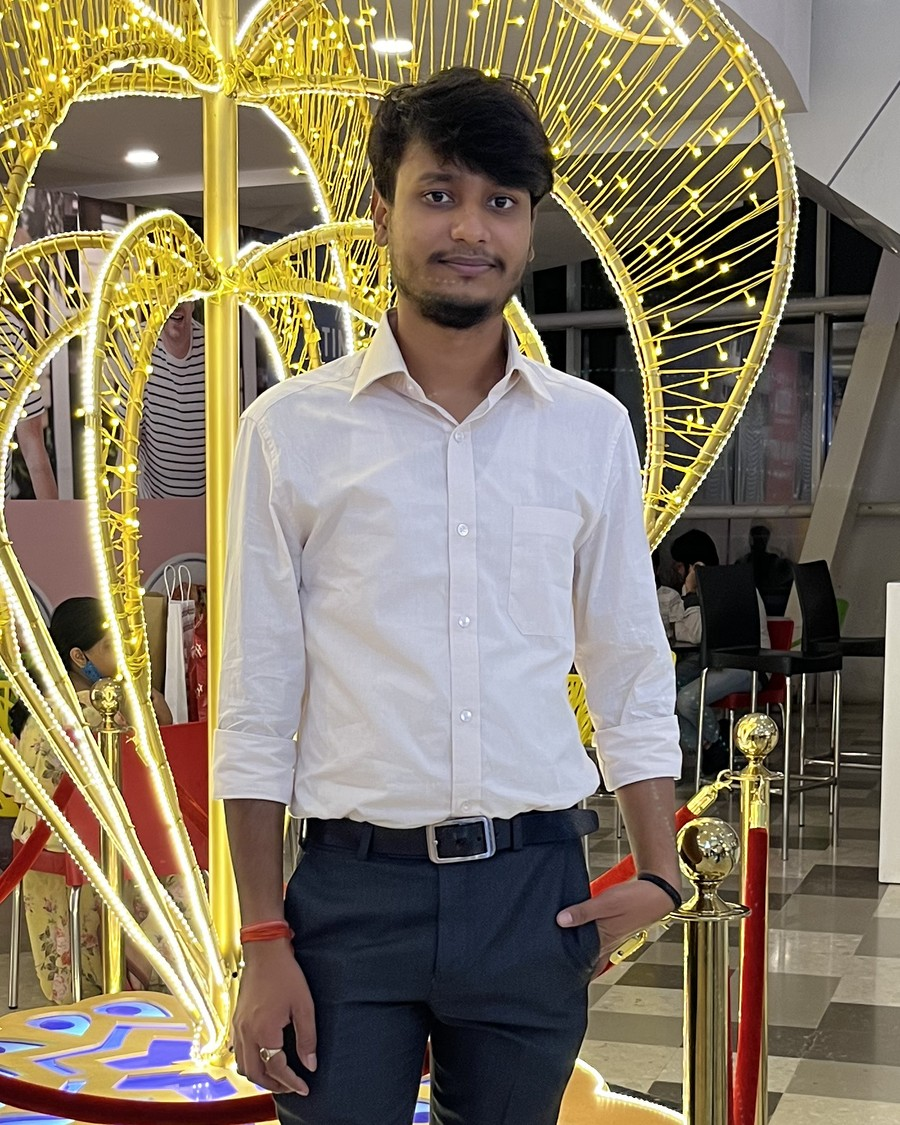
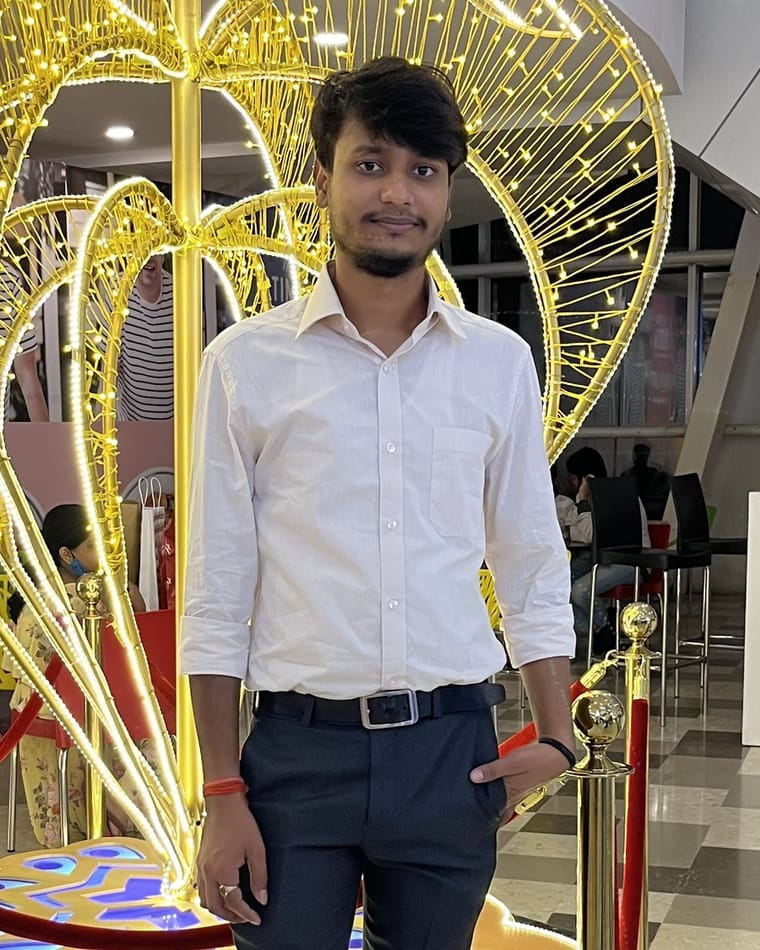
Accessibility and performance audit: focus rings, image weight, 404, reduced-motion
Audited the site rather than just adding more decoration:

- No interactive element had a visible keyboard focus indicator
  beyond the browser default; the terminal and command-palette
  inputs had none at all after outline-none. Added a global
  :focus-visible ring (unlayered CSS, so it correctly overrides
  Tailwind's layered outline-none utility regardless of source
  order per the CSS cascade layers spec).
- avatar.jpg was an unoptimized 900x1125 330KB JPEG straight from a
  phone camera, served as-is since static export can't run Next's
  image optimizer at request time. Resized to the image's actual
  max display size and recompressed: 330KB -> 145KB (56% smaller)
  with no visible quality loss.
- The site had no custom 404 -- broken/typo'd links fell through to
  the bare default Next.js error page. Built one matching the site's
  actual design system (terminal-styled, on-brand).
- The new scroll-parallax hero background and clip-path photo reveal
  didn't check prefers-reduced-motion. Both now respect it via
  framer-motion's useReducedMotion: parallax transforms collapse to
  static, and the reveal mask renders content immediately instead of
  animating.

diff --git a/src/app/not-found.tsx b/src/app/not-found.tsx
@@ -1,0 +1,55 @@
+import Link from "next/link";
+import { FiArrowLeft } from "react-icons/fi";
+import Navbar from "@/components/navbar";
+import Footer from "@/components/footer";
+
+export default function NotFound() {
+  return (
+    <>
+      <Navbar />
+      <main className="relative flex flex-1 items-center justify-center overflow-hidden px-6 py-32">
+        <div className="mesh-bg">
+          <div className="mesh-blob left-[10%] top-[10%] h-[360px] w-[360px] bg-accent" />
+          <div className="mesh-blob right-[10%] bottom-[10%] h-[320px] w-[320px] bg-accent-2" />
+          <div className="grid-pattern absolute inset-0" />
+        </div>
+
+        <div className="relative z-10 mx-auto max-w-lg text-center">
+          <p className="font-display text-gradient text-[clamp(4rem,14vw,8rem)] font-semibold leading-none">
+            404
+          </p>
+
+          <div className="glass mx-auto mt-8 max-w-md rounded-2xl p-5 text-left font-mono text-sm">
+            <div className="flex items-center gap-1.5 border-b border-border-subtle pb-3">
+              <span className="h-2.5 w-2.5 rounded-full bg-red-400/70" />
+              <span className="h-2.5 w-2.5 rounded-full bg-yellow-400/70" />
+              <span className="h-2.5 w-2.5 rounded-full bg-green-400/70" />
+              <span className="ml-3 text-xs text-muted">zsh — portfolio</span>
+            </div>
+            <p className="mt-3">
+              <span className="text-accent">➜</span>{" "}
+              <span className="text-foreground">cd {"{this-page}"}</span>
+            </p>
+            <p className="mt-1 text-muted">
+              zsh: no such file or directory
+            </p>
+          </div>
+
+          <p className="mt-8 text-base text-muted">
+            The page you&apos;re looking for doesn&apos;t exist, or moved.
+          </p>
+
+          <Link
+            href="/"
+            data-cursor-hover
+            className="mt-8 inline-flex items-center gap-2 rounded-full bg-accent px-6 py-3 text-sm font-semibold text-[#1c1005] transition-shadow hover:shadow-lg hover:shadow-accent/25"
+          >
+            <FiArrowLeft />
+            Back to home
+          </Link>
+        </div>
+      </main>
+      <Footer />
+    </>
+  );
+}

diff --git a/src/components/hero.tsx b/src/components/hero.tsx
@@ -1,7 +1,13 @@
 "use client";
 
 import { useRef } from "react";
-import { motion, useScroll, useTransform, type Variants } from "framer-motion";
+import {
+  motion,
+  useScroll,
+  useTransform,
+  useReducedMotion,
+  type Variants,
+} from "framer-motion";
 import { FiArrowDown, FiArrowRight, FiDownload } from "react-icons/fi";
 import MagneticButton from "@/components/magnetic-button";
 import Terminal from "@/components/terminal";
@@ -29,17 +35,42 @@ const letter: Variants = {
 
 export default function Hero() {
   const sectionRef = useRef<HTMLElement>(null);
+  const shouldReduceMotion = useReducedMotion();
   const { scrollYProgress } = useScroll({
     target: sectionRef,
     offset: ["start start", "end start"],
   });
 
-  const yBlobFast = useTransform(scrollYProgress, [0, 1], [0, -140]);
-  const yBlobMid = useTransform(scrollYProgress, [0, 1], [0, -80]);
-  const yBlobSlow = useTransform(scrollYProgress, [0, 1], [0, -180]);
-  const yGrid = useTransform(scrollYProgress, [0, 1], [0, -40]);
-  const contentOpacity = useTransform(scrollYProgress, [0, 0.55], [1, 0]);
-  const contentY = useTransform(scrollYProgress, [0, 0.55], [0, 60]);
+  const yBlobFast = useTransform(
+    scrollYProgress,
+    [0, 1],
+    shouldReduceMotion ? [0, 0] : [0, -140]
+  );
+  const yBlobMid = useTransform(
+    scrollYProgress,
+    [0, 1],
+    shouldReduceMotion ? [0, 0] : [0, -80]
+  );
+  const yBlobSlow = useTransform(
+    scrollYProgress,
+    [0, 1],
+    shouldReduceMotion ? [0, 0] : [0, -180]
+  );
+  const yGrid = useTransform(
+    scrollYProgress,
+    [0, 1],
+    shouldReduceMotion ? [0, 0] : [0, -40]
+  );
+  const contentOpacity = useTransform(
+    scrollYProgress,
+    [0, 0.55],
+    shouldReduceMotion ? [1, 1] : [1, 0]
+  );
+  const contentY = useTransform(
+    scrollYProgress,
+    [0, 0.55],
+    shouldReduceMotion ? [0, 0] : [0, 60]
+  );
 
   return (
     <section

diff --git a/src/components/reveal-mask.tsx b/src/components/reveal-mask.tsx
@@ -1,6 +1,6 @@
 "use client";
 
-import { motion } from "framer-motion";
+import { motion, useReducedMotion } from "framer-motion";
 import type { ReactNode } from "react";
 
 type RevealMaskProps = {
@@ -16,8 +16,13 @@ export default function RevealMask({
   className,
   direction = "left",
 }: RevealMaskProps) {
+  const shouldReduceMotion = useReducedMotion();
   const hiddenClip =
     direction === "left" ? "inset(0 0 0 100%)" : "inset(0 100% 0 0)";
+
+  if (shouldReduceMotion) {
+    return <div className={className}>{children}</div>;
+  }
 
   return (
     <motion.div

diff --git a/src/app/globals.css b/src/app/globals.css
@@ -90,6 +90,12 @@ body {
   color: #1c1005;
 }
 
+:focus-visible {
+  outline: 2px solid var(--accent);
+  outline-offset: 3px;
+  border-radius: 2px;
+}
+
 /* Custom thin scrollbar */
 ::-webkit-scrollbar {
   width: 10px;
